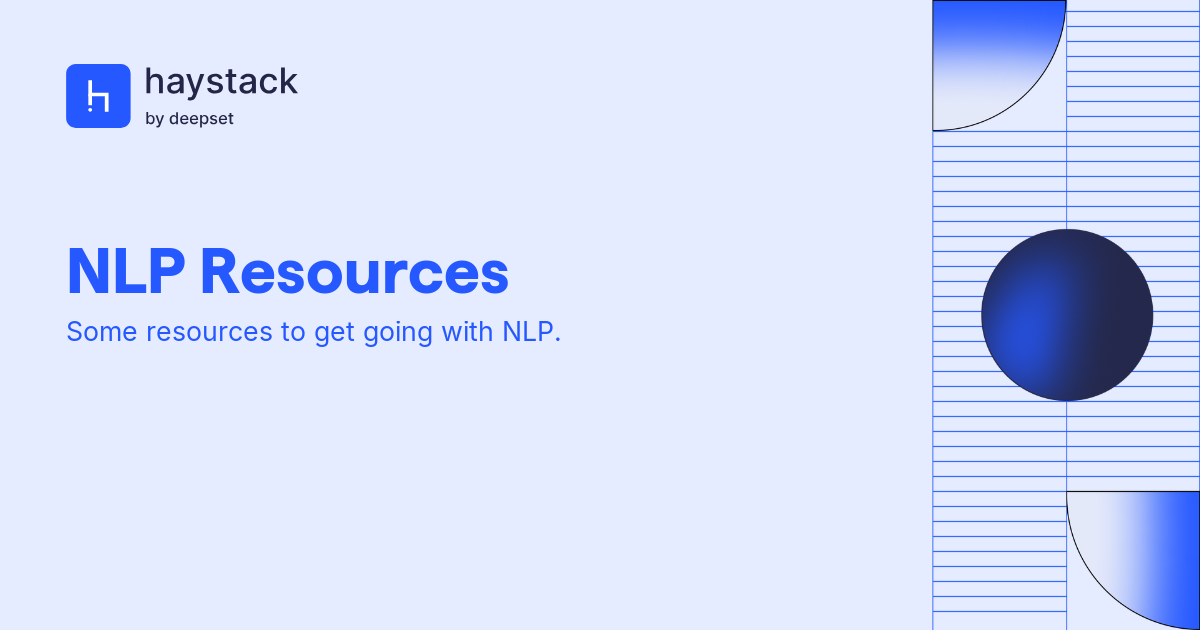
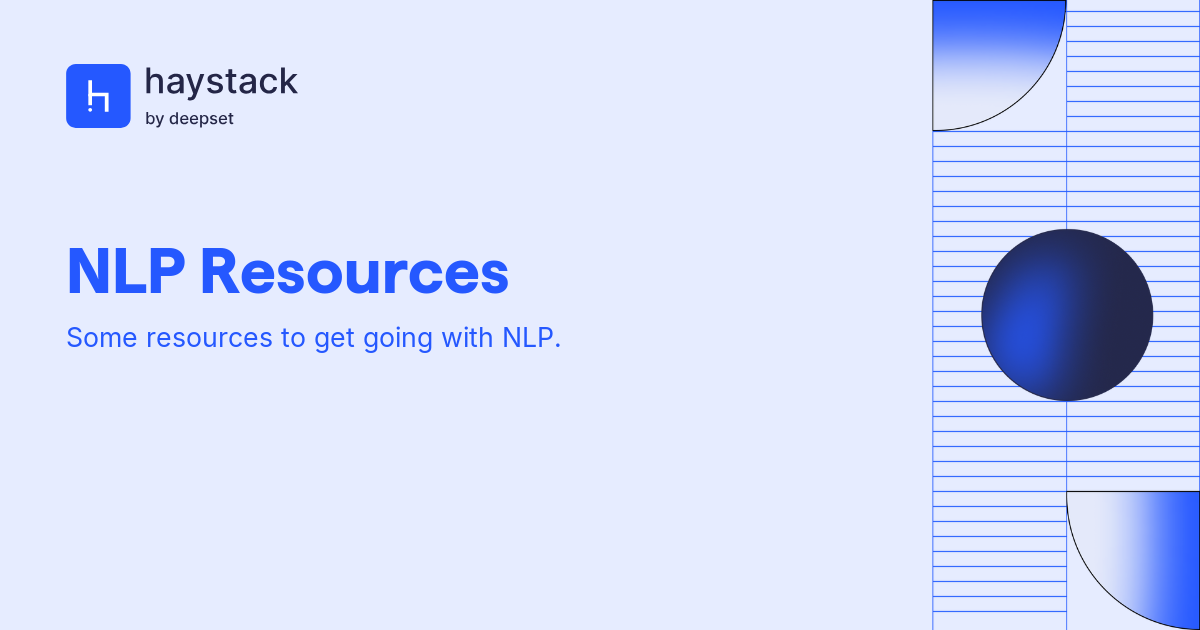
chore: fix the dead links  (#567)
* ci: exclude medium.com and substack.com from dead-link check

Both sites are alive but block the lychee crawler (403), producing
false-positive failures for @nickprock, the BERT dummy's-guide post,
and Elvis Saravia's Transformers recipe.

* fix: pin benchmarks reader.py link to v1.9.0 tag

The file was removed from master/main after the Haystack 2.x
rewrite, 404ing the link. Pinning to the v1.9.0 tag (matching this
benchmark) keeps it resolvable.

* content: repoint dead nlp-resources links to live sources

TDS Archive articles moved under medium.com/data-science with the
same slugs; repoint 3 links there (also lands them under the new
medium.com exclude). The old Haystack 1.x reader deep-dive page is
gone, so point "From Language Model to Haystack Reader" at the
current ExtractiveReader doc instead.

* chore(social-images): sync images for changed content

---------

Changed region(s): [[0.0308, 0.5127, 0.4625, 0.573]]

diff --git a/content/pages/nlp-resources.md b/content/pages/nlp-resources.md
@@ -21,7 +21,7 @@ Learn about what is possible when we apply computational power to language proce
 | --------------------------------------------------------------------------------------------------------------------------------------------------------------- | -------------- | ----------------- | ---------------------------------------------------------------------------------------------------------------------------------------- | ------------ |
 | [Natural Language Processing (NLP)](https://www.ibm.com/cloud/learn/natural-language-processing#toc-nlp-tasks-K4EAXccS)                                         | Blog           | IBM               | High level introduction to the tasks, tools, and use cases of NLP.                                                                       | Beginner     |
 | [Introduction to NLP](https://www.youtube.com/watch?v=s5zuplW8ua8)                                                                                              | Video          | Data Science Dojo | Covers many of the different tasks from part-of-speech tagging to the creation of word embeddings. Contains some probabilistic notation. | Intermediate |
-| [Text Classification with NLP: Tf-Idf vs Word2Vec vs BERT](https://towardsdatascience.com/text-classification-with-nlp-tf-idf-vs-word2vec-vs-bert-41ff868d1794) | Blog with Code | Mauro Di Pietro   | Hands-on and in depth dive into text classification using TF-IDF, Word2Vec and BERT.                                                     | Intermediate |
+| [Text Classification with NLP: Tf-Idf vs Word2Vec vs BERT](https://medium.com/data-science/text-classification-with-nlp-tf-idf-vs-word2vec-vs-bert-41ff868d1794) | Blog with Code | Mauro Di Pietro   | Hands-on and in depth dive into text classification using TF-IDF, Word2Vec and BERT.                                                     | Intermediate |
 
 </div>
 
@@ -52,7 +52,7 @@ Learn how they are generated and why they are useful.
 | Title                                                                                                                                  | Type | Author                 | Description                                                                                                | Level        |
 | -------------------------------------------------------------------------------------------------------------------------------------- | ---- | ---------------------- | ---------------------------------------------------------------------------------------------------------- | ------------ |
 | [What Is Text Vectorization? Everything You Need to Know](https://www.deepset.ai/blog/what-is-text-vectorization-in-nlp)               | Blog | Branden Chan (deepset) | High-level overview of text vectorization starting from TF-IDF to Transformers.                            | Beginner     |
-| [Word Embeddings for NLP](https://towardsdatascience.com/word-embeddings-for-nlp-5b72991e01d4)                                         | Blog | Renu Khandelwal        | Gives good intuition of what word embeddings are and how we use them. Contains some helpful illustrations. | Intermediate |
+| [Word Embeddings for NLP](https://medium.com/data-science/word-embeddings-for-nlp-5b72991e01d4)                                         | Blog | Renu Khandelwal        | Gives good intuition of what word embeddings are and how we use them. Contains some helpful illustrations. | Intermediate |
 | [Introduction to Word Embedding and Word2Vec](https://towardsdatascience.com/introduction-to-word-embedding-and-word2vec-652d0c2060fa) | Blog | Dhruvil Karani         | A deeper dive into the CBOW and Skip Gram versions of Word2Vec.                                            | Advanced     |
 
 </div>
@@ -67,8 +67,8 @@ Learn why these were so revolutionary and how they work.
 
 | Title                                                                                                                                                                             | Type          | Author          | Description                                                                                              | Level        |
 | --------------------------------------------------------------------------------------------------------------------------------------------------------------------------------- | ------------- | --------------- | -------------------------------------------------------------------------------------------------------- | ------------ |
-| [From Language Model to Haystack Reader](/pipeline_nodes/reader#deeper-dive-from-language-model-to-haystack-reader)                                                               | Documentation | deepset         | High level overview of how language models, Readers and prediction heads are all related                 | Beginner     |
-| [Intuitive Explanation of BERT- Bidirectional Transformers for NLP](https://towardsdatascience.com/intuitive-explanation-of-bert-bidirectional-transformers-for-nlp-cdc1efc69c1e) | Blog          | Renu Khandelwal | Touches upon many of the concepts that are essential to understanding how Transformers work.             | Beginner     |
+| [From Language Model to Haystack Reader](https://docs.haystack.deepset.ai/docs/extractivereader)                                                               | Documentation | deepset         | High level overview of how language models, Readers and prediction heads are all related                 | Beginner     |
+| [Intuitive Explanation of BERT- Bidirectional Transformers for NLP](https://medium.com/data-science/intuitive-explanation-of-bert-bidirectional-transformers-for-nlp-cdc1efc69c1e) | Blog          | Renu Khandelwal | Touches upon many of the concepts that are essential to understanding how Transformers work.             | Beginner     |
 | [A dummy’s guide to BERT](https://medium.com/swlh/bert-139acce0592d)                                                                                                              | Blog          | Nicole Nair     | A good high-level summary of the BERT paper.                                                             | Beginner     |
 | [Learn About Transformers: A Recipe](https://elvissaravia.substack.com/p/learn-about-transformers-a-recipe?s=r)                                                                   | Blog          | Elvis Saravia   | Links to many other resources that give explanations or implementations of the Transformer architecture. | Intermediate |
 | [The Illustrated Transformer](https://jalammar.github.io/illustrated-transformer/)                                                                                                | Blog          | Jay Alammar     | Excellent visualization of the inner workings of transformer models. Gets quite deep into details.       | Advanced     |
